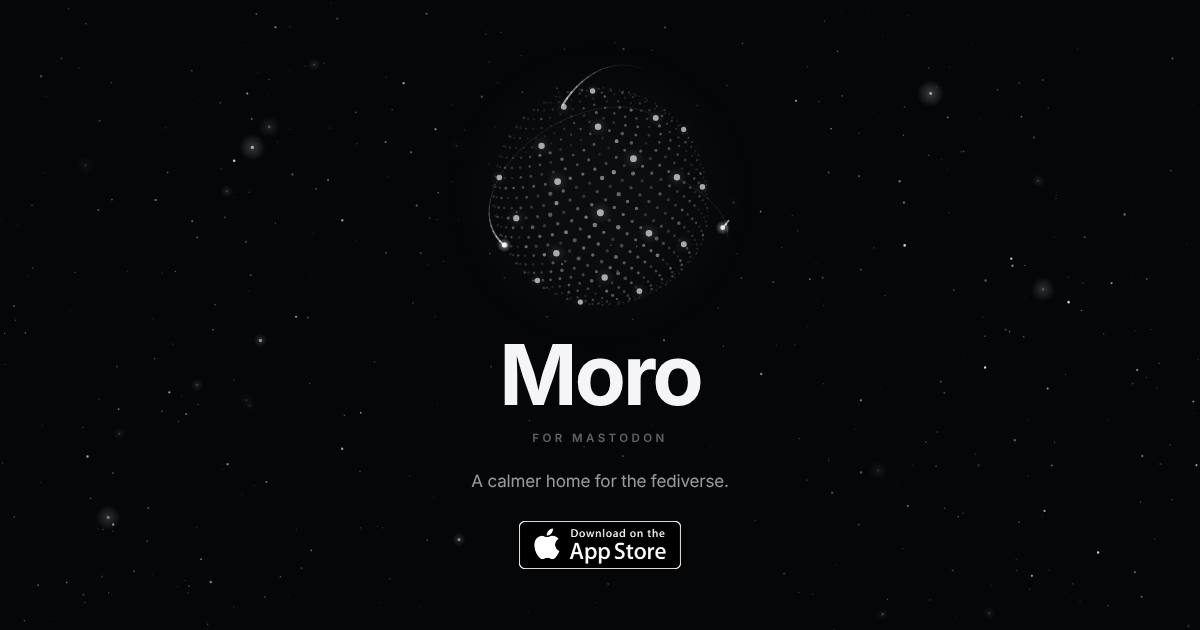
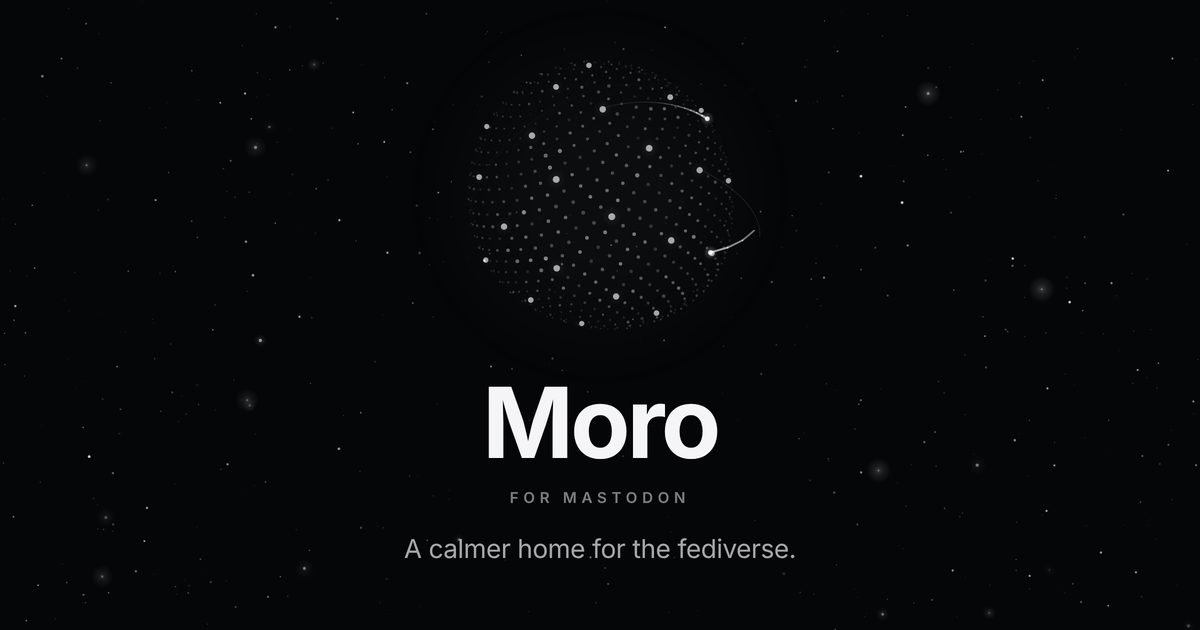
Refresh OG image for link previews
Purpose-built 1200x630 card: particle globe and wordmark composed for
the preview frame, without the non-clickable App Store badge. The URL
carries ?v=2 so platforms re-fetch it.

Claude-Session: https://claude.ai/code/session_01FT4Rqjd2HgXAuyH65dCvYn

diff --git a/index.html b/index.html
@@ -17,14 +17,14 @@
     <meta property="og:title" content="Moro — A calmer home for the fediverse" />
     <meta property="og:description" content="Moro is a calm, privacy-respecting Mastodon client for iPhone. Read, follow, and post across the fediverse from any Mastodon server." />
     <meta property="og:url" content="https://moro.somincola.com/" />
-    <meta property="og:image" content="https://moro.somincola.com/assets/og-image.png" />
+    <meta property="og:image" content="https://moro.somincola.com/assets/og-image.png?v=2" />
     <meta property="og:image:width" content="1200" />
     <meta property="og:image:height" content="630" />
     <meta property="og:image:alt" content="Moro — a particle globe over a night sky, with the words Moro for Mastodon" />
     <meta name="twitter:card" content="summary_large_image" />
     <meta name="twitter:title" content="Moro — A calmer home for the fediverse" />
     <meta name="twitter:description" content="Moro is a calm, privacy-respecting Mastodon client for iPhone. Read, follow, and post across the fediverse from any Mastodon server." />
-    <meta name="twitter:image" content="https://moro.somincola.com/assets/og-image.png" />
+    <meta name="twitter:image" content="https://moro.somincola.com/assets/og-image.png?v=2" />
 
     <link rel="icon" href="/favicon.ico" sizes="any" />
     <link rel="icon" type="image/png" sizes="32x32" href="/assets/favicon-32.png" />

diff --git a/src/seo.js b/src/seo.js
@@ -3,7 +3,7 @@
 
 export const SITE_URL = "https://moro.somincola.com";
 export const APP_STORE_ID = "6776115614";
-export const OG_IMAGE = `${SITE_URL}/assets/og-image.png`;
+export const OG_IMAGE = `${SITE_URL}/assets/og-image.png?v=2`;
 
 export const ROUTES = {
   "/": {
